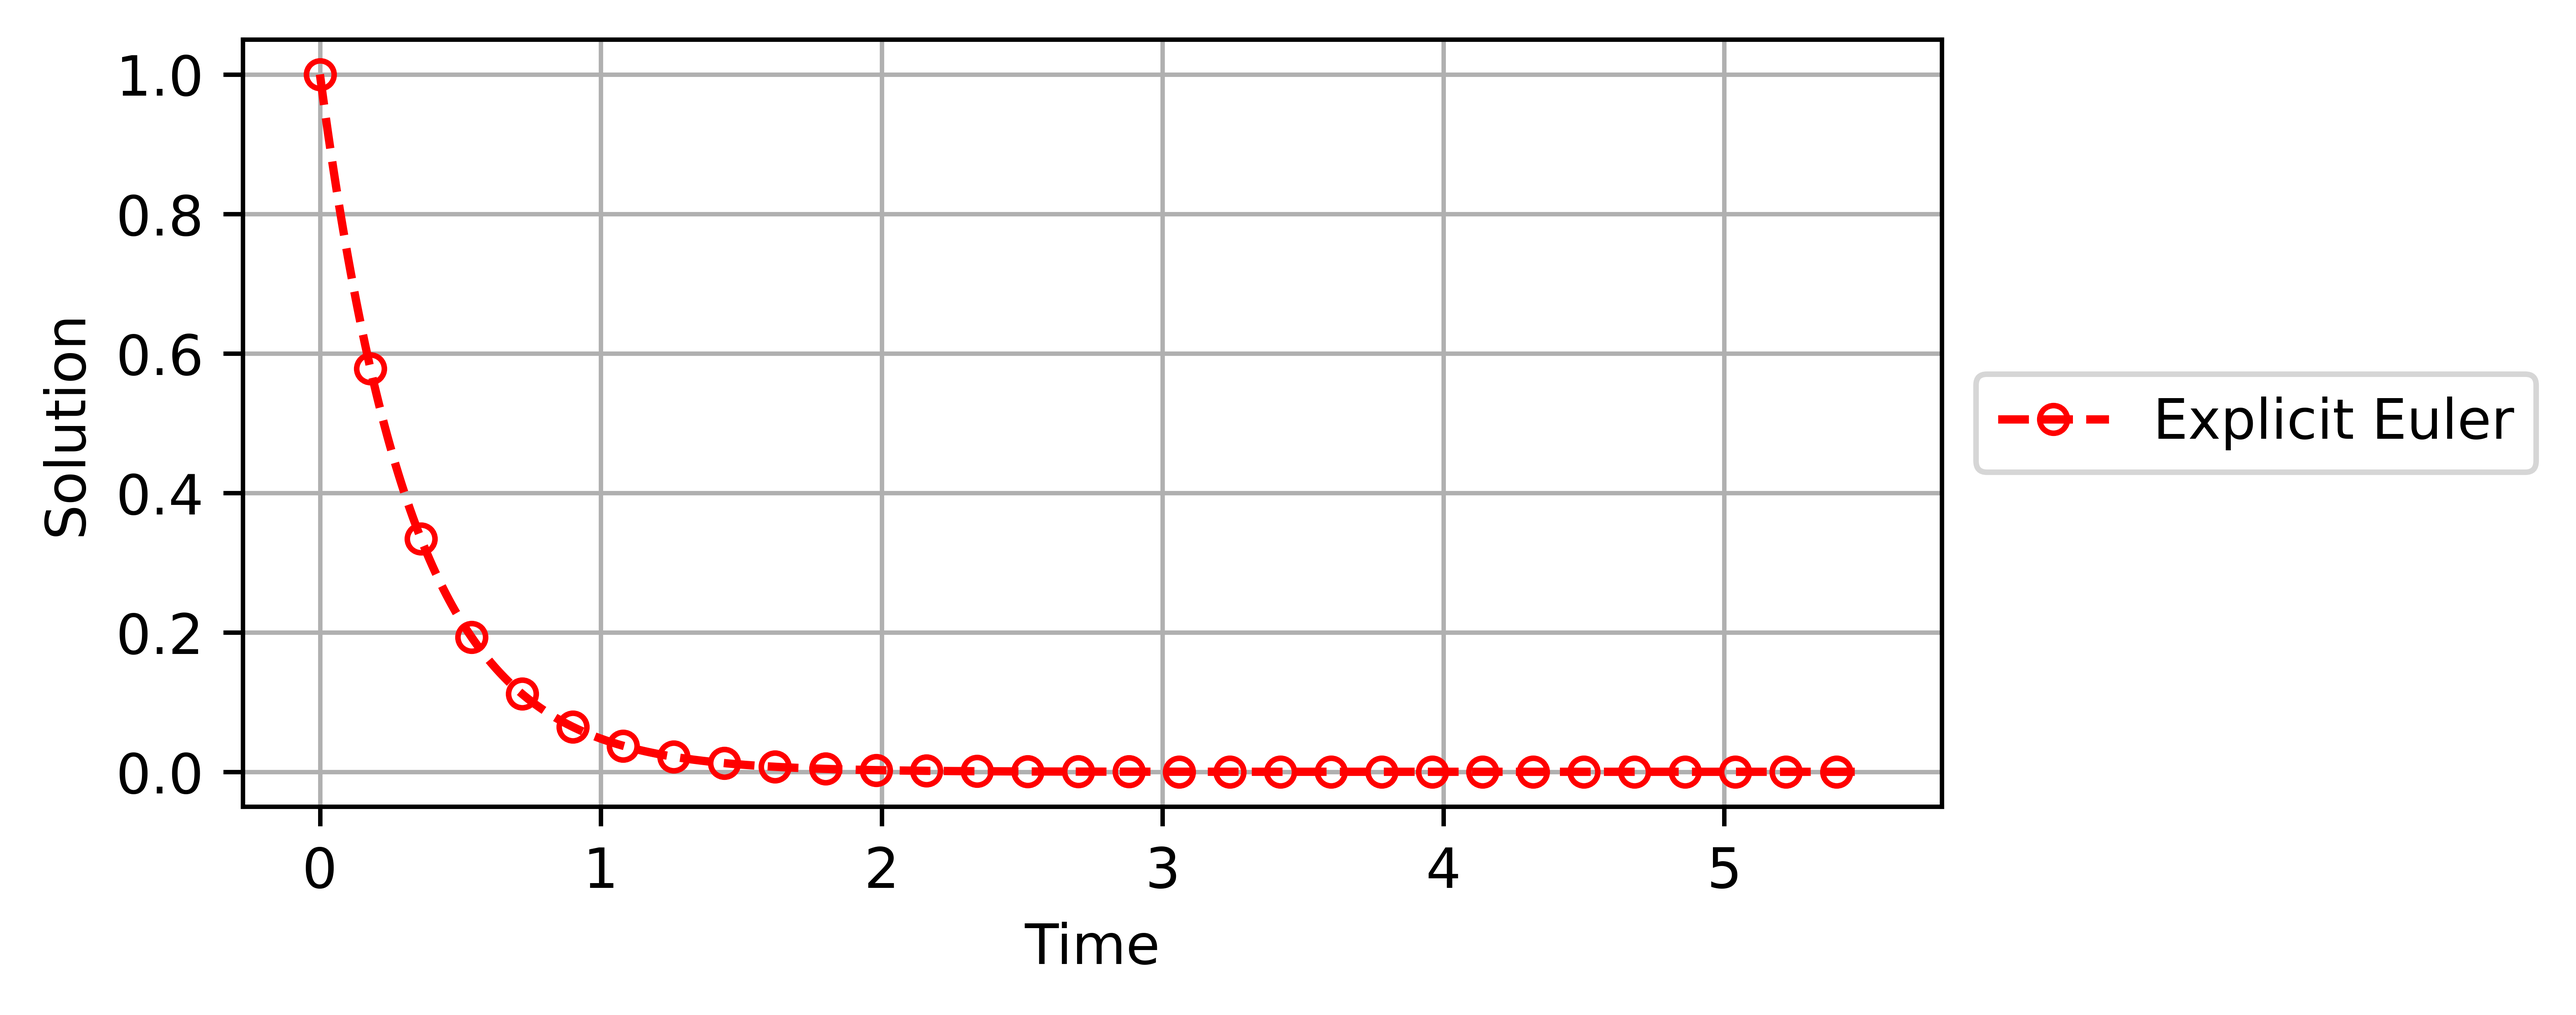
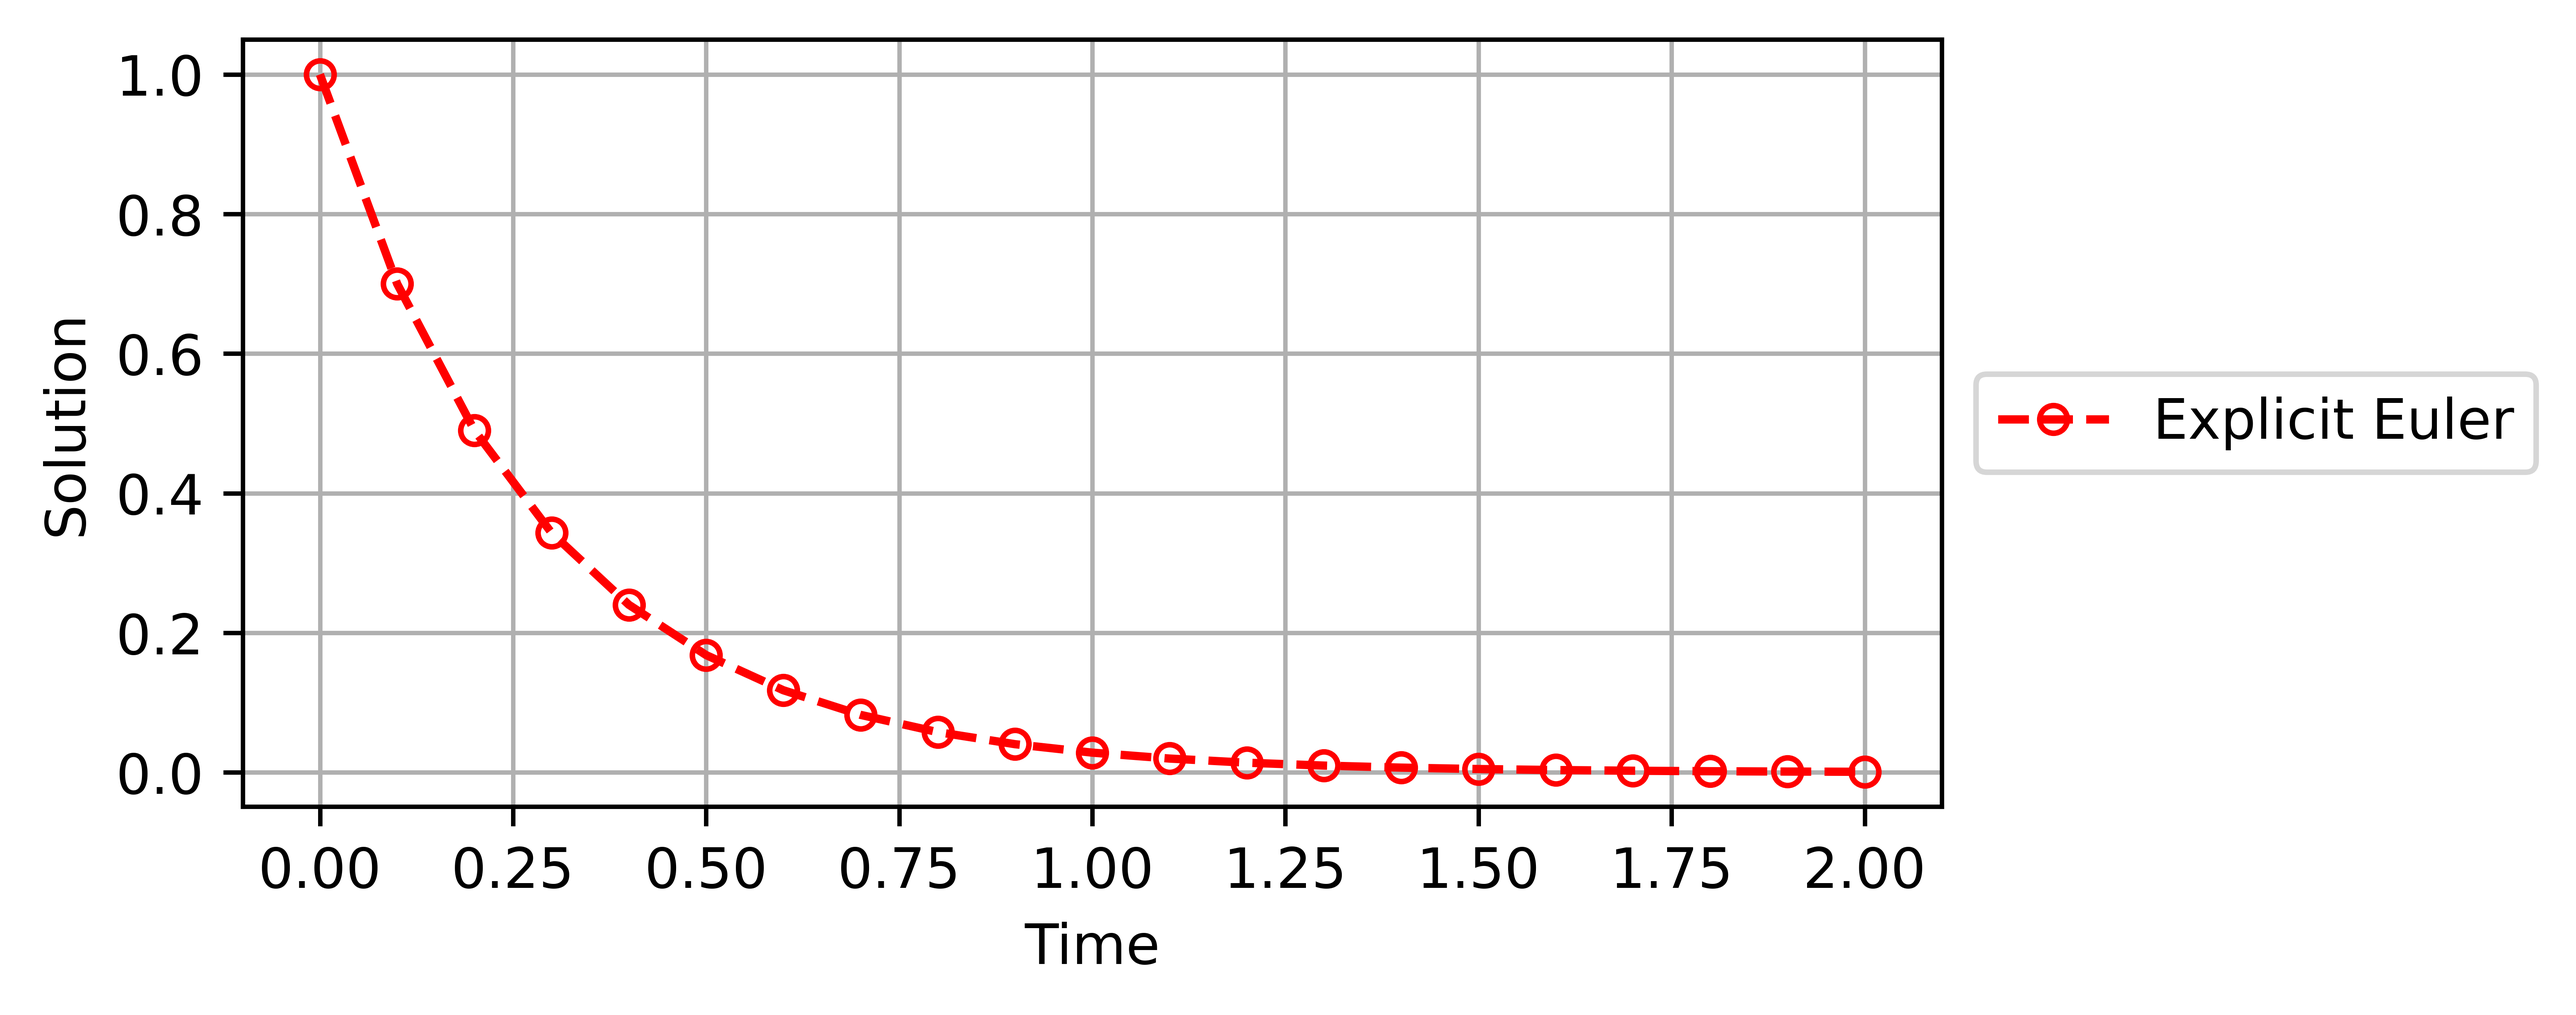
v0.3.7

diff --git a/docs/tutorial.md b/docs/tutorial.md
@@ -90,7 +90,7 @@ By default, the function returns an instance of the `ODEResult` class that encap
 >>> def F(t, u):
 >>>    return -3*u 
 >>>
->>> specular.ode.classical_scheme(F=F, u_0=1.0, t_0=0.0, T=5.5, h=0.01, scheme="Explicit Euler")
+>>> specular.ode.classical_scheme(F=F, u_0=1.0, t_0=0.0, T=2.0, h=0.1, scheme="Explicit Euler")
 <specular.tools.ODEResult at 0x277501e74d0>
 ``` 
 
@@ -101,7 +101,15 @@ It returns a tuple containing the time grid and the numerical solution.
 >>> def F(t, u):
 >>>    return -3*u 
 >>>
->>> specular.ode.classical_scheme(F=F, u_0=1.0, t_0=0.0, T=5.5, h=0.01, scheme="Explicit Euler").values()
+>>> specular.ode.classical_scheme(F=F, u_0=1.0, t_0=0.0, T=2.0, h=0.1, scheme="Explicit Euler").values()
+>>> (array([0. , 0.1, 0.2, 0.3, 0.4, 0.5, 0.6, 0.7, 0.8, 0.9, 1. , 1.1, 1.2,
+            1.3, 1.4, 1.5, 1.6, 1.7, 1.8, 1.9, 2. ]),
+    array([1.00000000e+00, 7.00000000e-01, 4.90000000e-01, 3.43000000e-01,
+           2.40100000e-01, 1.68070000e-01, 1.17649000e-01, 8.23543000e-02,
+           5.76480100e-02, 4.03536070e-02, 2.82475249e-02, 1.97732674e-02,
+           1.38412872e-02, 9.68890104e-03, 6.78223073e-03, 4.74756151e-03,
+           3.32329306e-03, 2.32630514e-03, 1.62841360e-03, 1.13988952e-03,
+           7.97922663e-04]))
 ``` 
 
 To visualize the numerical results, call `.visualization()`.
@@ -110,7 +118,8 @@ To visualize the numerical results, call `.visualization()`.
 >>> def F(t, u):
 >>>    return -3*u 
 >>>
->>> specular.ode.classical_scheme(F=F, u_0=1.0, t_0=0.0, T=5.5, h=0.01, scheme="Explicit Euler").visualization(save_path="Explicit Euler")
+>>> specular.ode.classical_scheme(F=F, u_0=1.0, t_0=0.0, T=2.0, h=0.1, scheme="Explicit Euler").visualization(save_path="Explicit Euler")
+Figure saved to figures\Explicit-Euler
 ``` 
 
 ![Explicit-Euler-scheme](figures/Explicit-Euler.png)
@@ -128,6 +137,8 @@ To obtain the table of the numerical results, call `.table()`.
 >>>     return exact_sol(t_0)
 >>> 
 >>> specular.ode.classical_scheme(F=F, u_0=u_0, t_0=0.0, T=0.9, h=0.01, scheme="Implicit Euler").visualization(exact_sol=exact_sol, save_path="Implicit Euler").table(exact_sol=exact_sol, save_path="Implicit Euler")
+Figure saved to figures\Implicit-Euler
+Table saved to tables\Implicit-Euler.csv
 ```
 
 ![Implicit-Euler-scheme](figures/Implicit-Euler.png)
